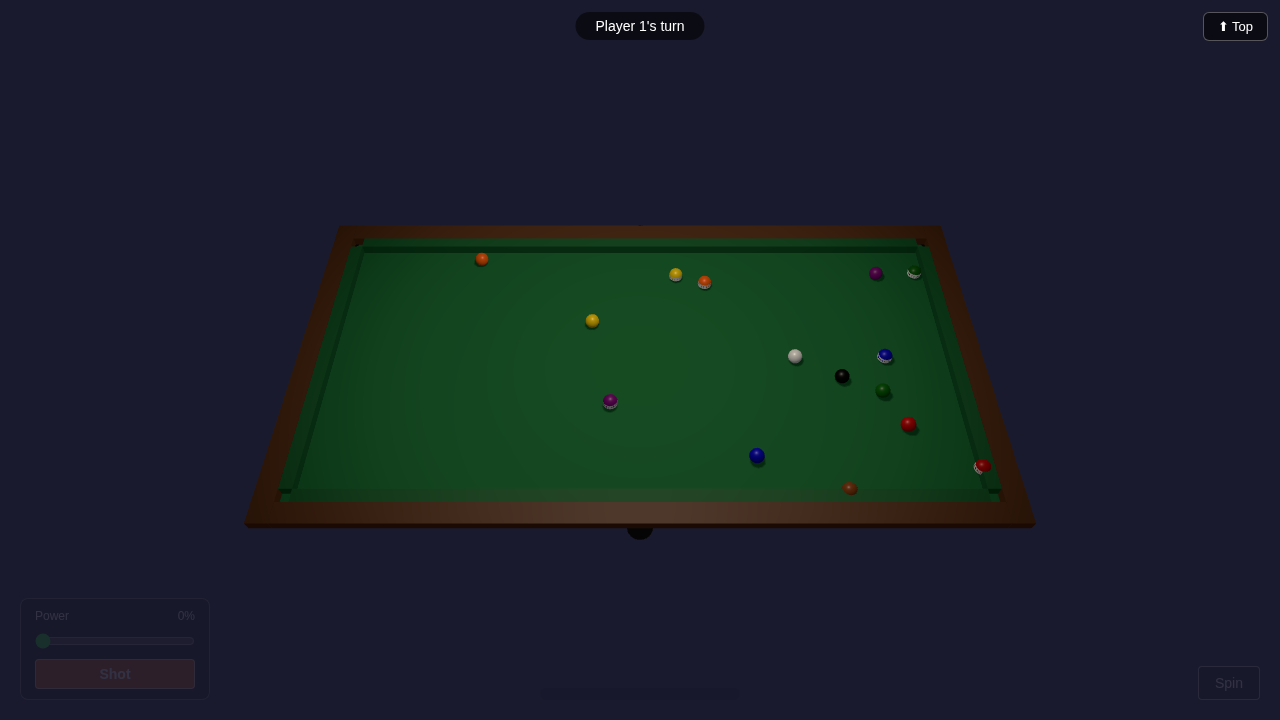
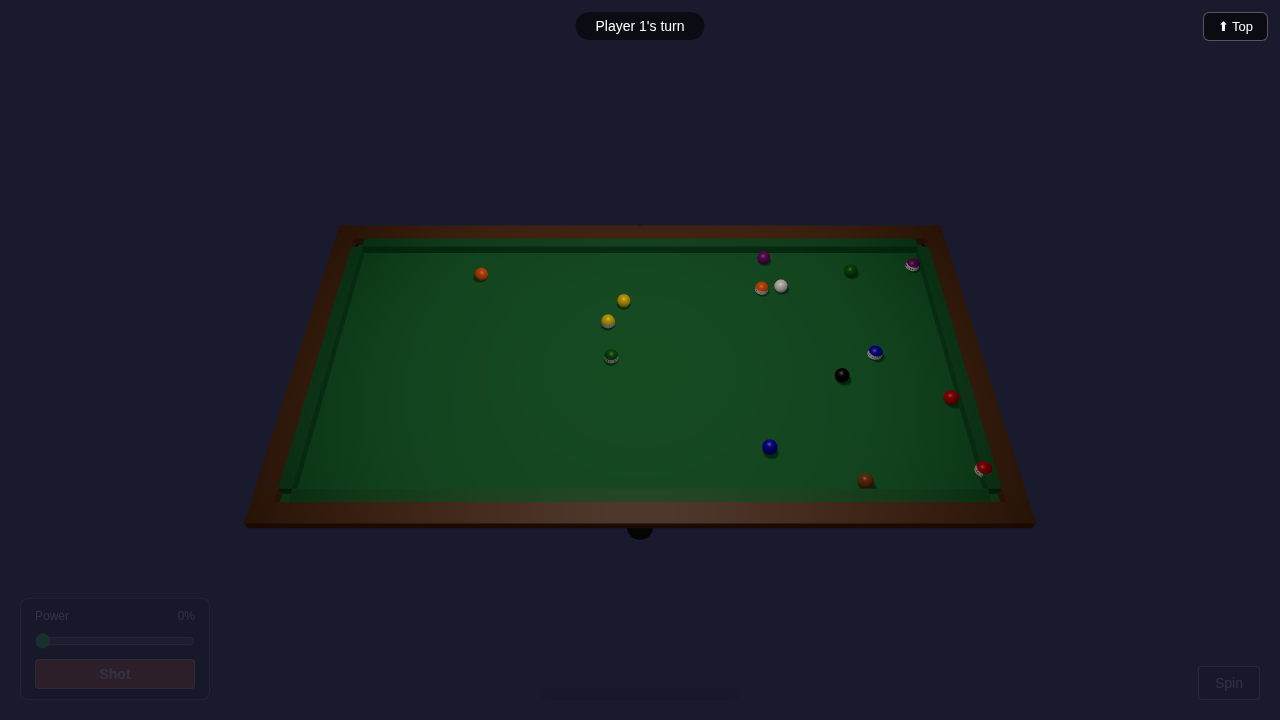
fix(demo): change default seed to 4 — P0(rank4) clean legal 8-ball win
seed=4: P0(rank4) legally pots 8-ball → game-over shows
"Player 1 wins! You pocketed the black ball"
= winner self-pockets = attribution unambiguous for CEO spectator.

seed=7 was P0 foul → "Player 2 wins! You pocketed the black ball"
where "You" = loser (DIV-002 Unity quirk), misleading for AI-vs-AI demo.

Seed scan results (r0=4 r1=2):
  seed2: P1 foul → "Player 1 wins! Your opponent pocketed the black ball"
  seed4: P0 legal → "Player 1 wins! You pocketed the black ball" ← selected
  seed7: P0 foul → "Player 2 wins! You pocketed the black ball"
Timeout seeds (0,1,5) = cap-hit deadlock in this window.

SV1/SV2/SV3 smoke tests updated to seed=4; all 3 PASS (40.2 s).

diff --git a/tests/smoke/demo-ai-selfplay.spec.ts b/tests/smoke/demo-ai-selfplay.spec.ts
@@ -5,8 +5,8 @@
  * SV2 — First AI shot fires within 3 s of page load.
  * SV3 — Game plays to completion: game-over UI appears with a winner (player 1 or 2).
  *
- * URL: ?demo=ai-selfplay&seed=7&r0=4&r1=2&delay=0
- *   seed=7 verified cleanWin=true in P1-T05 asymmetric test (37 shots).
+ * URL: ?demo=ai-selfplay&seed=4&r0=4&r1=2&delay=0
+ *   seed=4: P0(rank4) legally pots 8-ball → "Player 1 wins! You pocketed the black ball" (clean legal win).
  *   delay=0 removes inter-shot pause so the test completes in replay-time only.
  *
  * Timeout: 120 s to accommodate ~37 shots × replay time in headless Chromium.
@@ -20,7 +20,7 @@ import { fileURLToPath } from 'url';
 const BASE_URL = 'http://localhost:5173';
 const __dirname = path.dirname(fileURLToPath(import.meta.url));
 const SS = (n: string) => path.join(__dirname, 'screenshots', n);
-const DEMO_URL = `${BASE_URL}?demo=ai-selfplay&seed=7&r0=4&r1=2&delay=0`;
+const DEMO_URL = `${BASE_URL}?demo=ai-selfplay&seed=4&r0=4&r1=2&delay=0`;
 
 async function gotoDemo(page: Page) {
   if (!fs.existsSync(path.join(__dirname, 'screenshots'))) {

diff --git a/src/game/ai-demo.ts b/src/game/ai-demo.ts
@@ -19,9 +19,9 @@ export interface AIDemoConfig {
   turnDelayMs: number; // ms between replay completion and next AI shot
 }
 
-// seed 7 verified cleanWin=true in P1-T05 asymmetric demo (rank0=4 vs rank1=2)
+// seed 4: P0(rank4) legally pots 8-ball → "Player 1 wins! You pocketed the black ball" (clean legal win)
 export const AI_DEMO_DEFAULTS: AIDemoConfig = {
-  seed: 7,
+  seed: 4,
   rank0: 4,
   rank1: 2,
   turnDelayMs: 800,